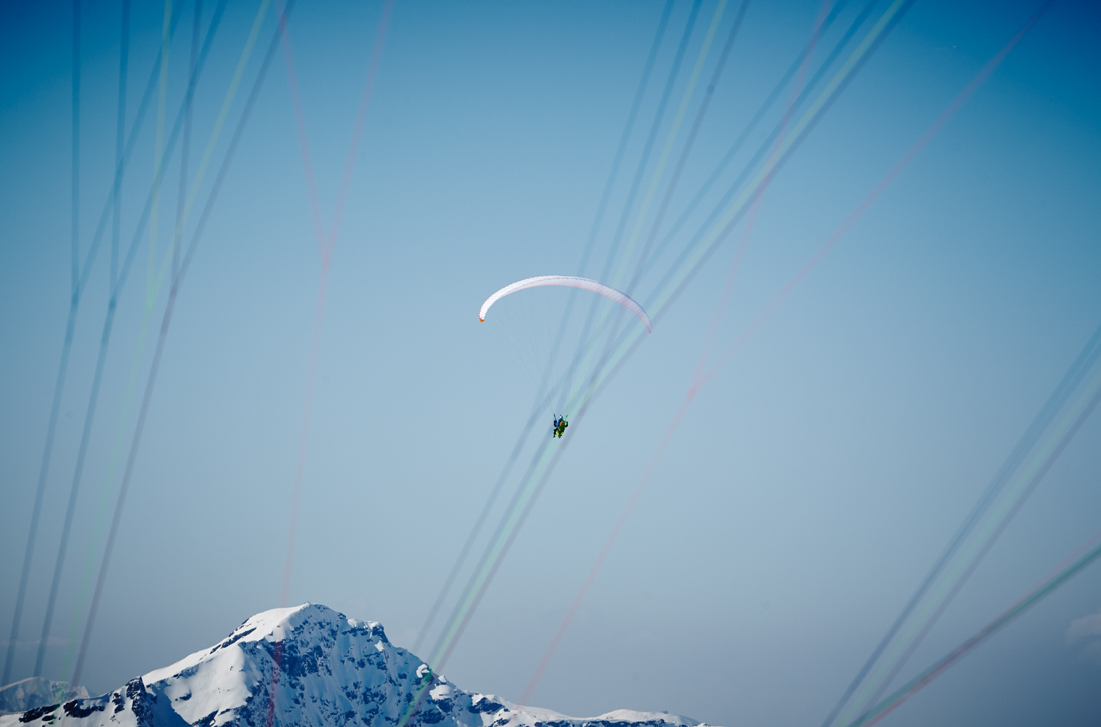
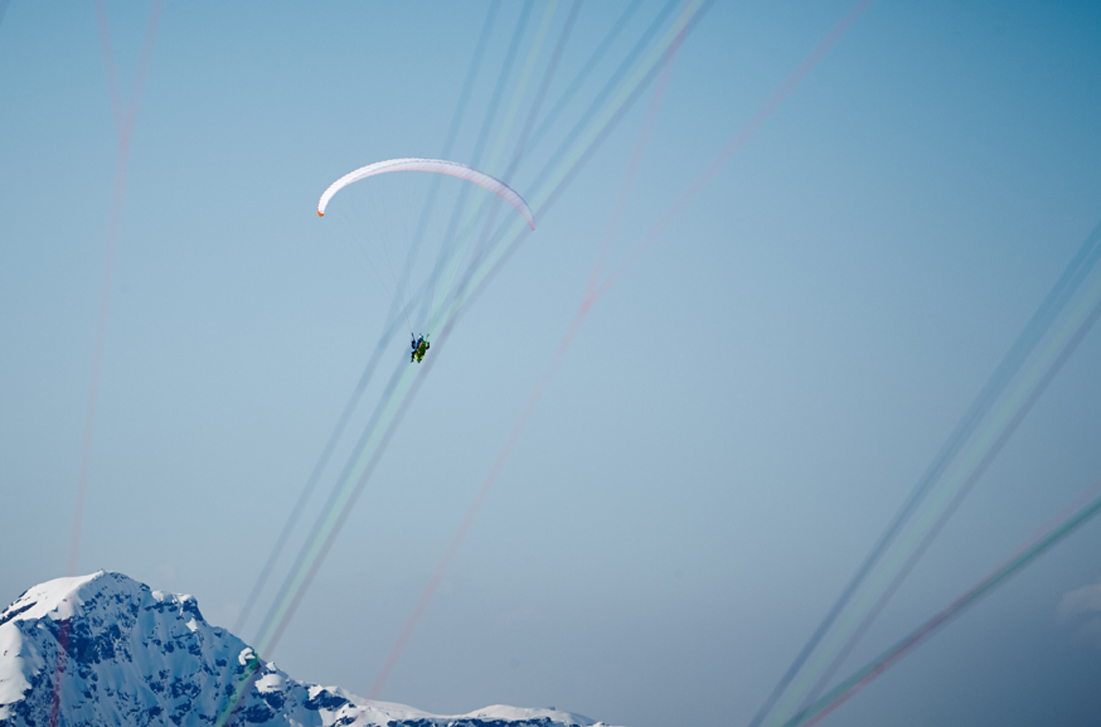
landing

diff --git a/css/sky-42.css b/css/sky-42.css
@@ -155,7 +155,7 @@
 .landing-container {
   width: 100vw;
   height: 100vh;
-  background-image: url("../img/landing.jpg");
+  background-image: url("../img/landing3.jpg");
   background-size: cover;
 }
 .col-line {

diff --git a/less/landing.less b/less/landing.less
@@ -5,7 +5,7 @@
 .landing-container{
 	width: 100vw;
 	height: 100vh;
-	background-image: url("../img/landing.jpg");
+	background-image: url("../img/landing3.jpg");
 	background-size: cover;
 }
 
